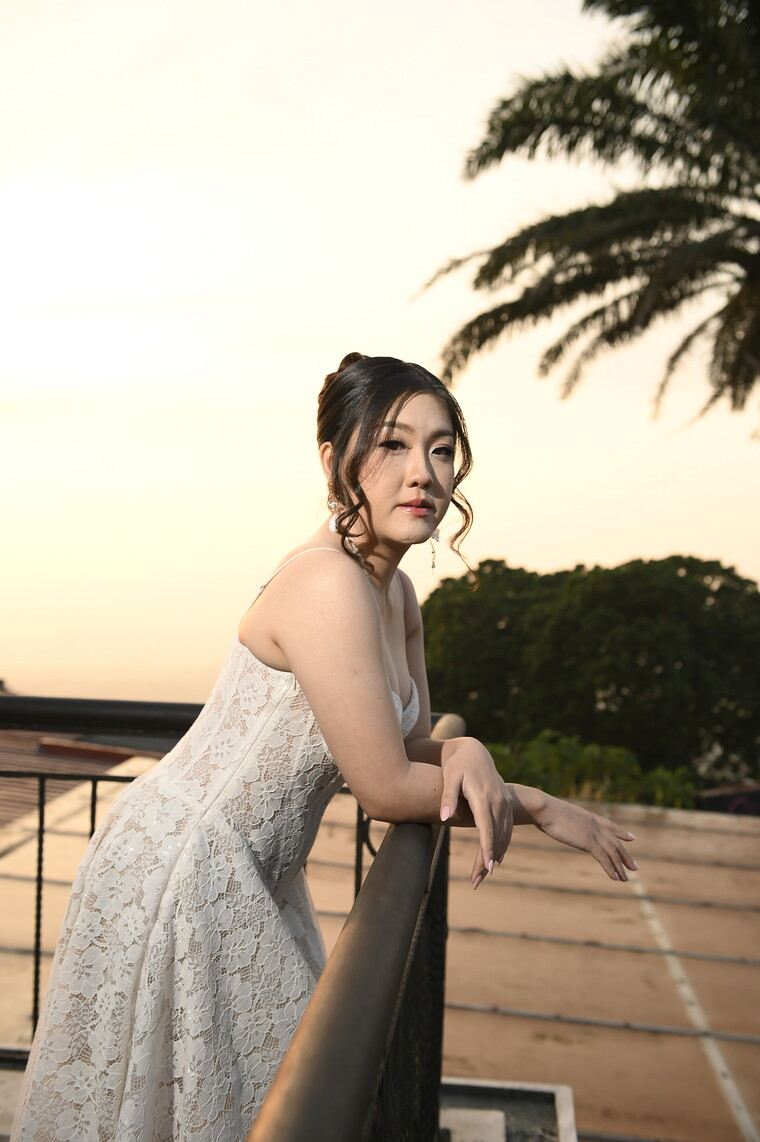
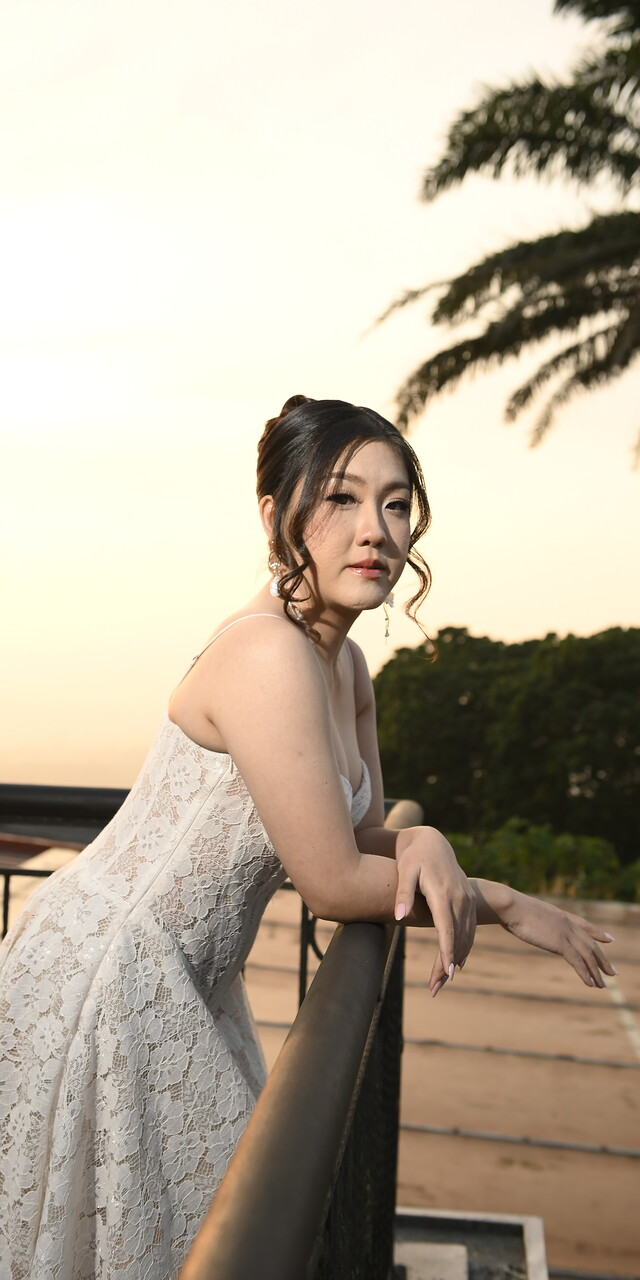
Kedua bingkai jadi pill jelas & tinggi sama
Sioni: fotonya dipangkas sisi ke aspek 1:2 supaya bingkainya benar-
benar pill (bukan oval). Ivan tetap full-body (aspek 600/1889).
Frame pakai height-based (min 23rem) jadi tinggi keduanya sama;
Sioni lebih lebar (potret), Ivan lebih ramping (full-body).
Cache: style.css ?v=fresco30, bride ?v=14.

Claude-Session: https://claude.ai/code/session_01GMSdUjAdfB16khtqgiAMZX

diff --git a/preview/css/style.css b/preview/css/style.css
@@ -303,8 +303,9 @@ button { font: inherit; cursor: pointer; }
 .person { margin-top: 2.4rem; }
 .arch-photo {
   position: relative;
-  width: min(15.5rem, 72vw);
-  aspect-ratio: 760 / 1142;
+  height: min(23rem, 84vw);
+  width: auto;
+  aspect-ratio: 1 / 2;
   margin: 0 auto 1.3rem;
   border-radius: 999px;
   overflow: hidden;
@@ -331,8 +332,8 @@ button { font: inherit; cursor: pointer; }
   margin-bottom: 1.8rem;
 }
 .arch-photo.big .ph-art { border-radius: inherit; }
-/* Foto Ivan versi full-body (strip tinggi) — bingkai lebih ramping & tinggi */
-.arch-photo.groom-full { width: min(11rem, 58vw); aspect-ratio: 600 / 1889; }
+/* Foto Ivan full-body (strip tinggi) — tinggi sama, tapi lebih ramping (aspek foto) */
+.arch-photo.groom-full { aspect-ratio: 600 / 1889; }
 
 .person-nick { font-size: 2.5rem; color: var(--ink-soft); line-height: 1; }
 .person-name { font-family: var(--serif); font-weight: 500; font-size: 1.5rem; letter-spacing: .06em; margin-top: .4rem; }

diff --git a/preview/index.html b/preview/index.html
@@ -12,7 +12,7 @@
   <link rel="preconnect" href="https://fonts.googleapis.com" />
   <link rel="preconnect" href="https://fonts.gstatic.com" crossorigin />
   <link href="https://fonts.googleapis.com/css2?family=Cormorant+Garamond:ital,wght@0,400;0,500;0,600;1,400;1,500&family=EB+Garamond:ital,wght@0,400;0,500;1,400&family=Great+Vibes&display=swap" rel="stylesheet" />
-  <link rel="stylesheet" href="css/style.css?v=fresco28" />
+  <link rel="stylesheet" href="css/style.css?v=fresco30" />
 </head>
 <body class="locked assemble">
 

diff --git a/preview/js/config.js b/preview/js/config.js
@@ -19,7 +19,7 @@ window.WEDDING_CONFIG = {
       full: "Sara Sioni Santoso",
       parents: "Putri dari Bapak Sie Djing San & Ibu Njoo Eng Lian",
       instagram: "",
-      photo: "../assets/img/bride.jpg?v=13",
+      photo: "../assets/img/bride.jpg?v=14",
     },
   },
 
